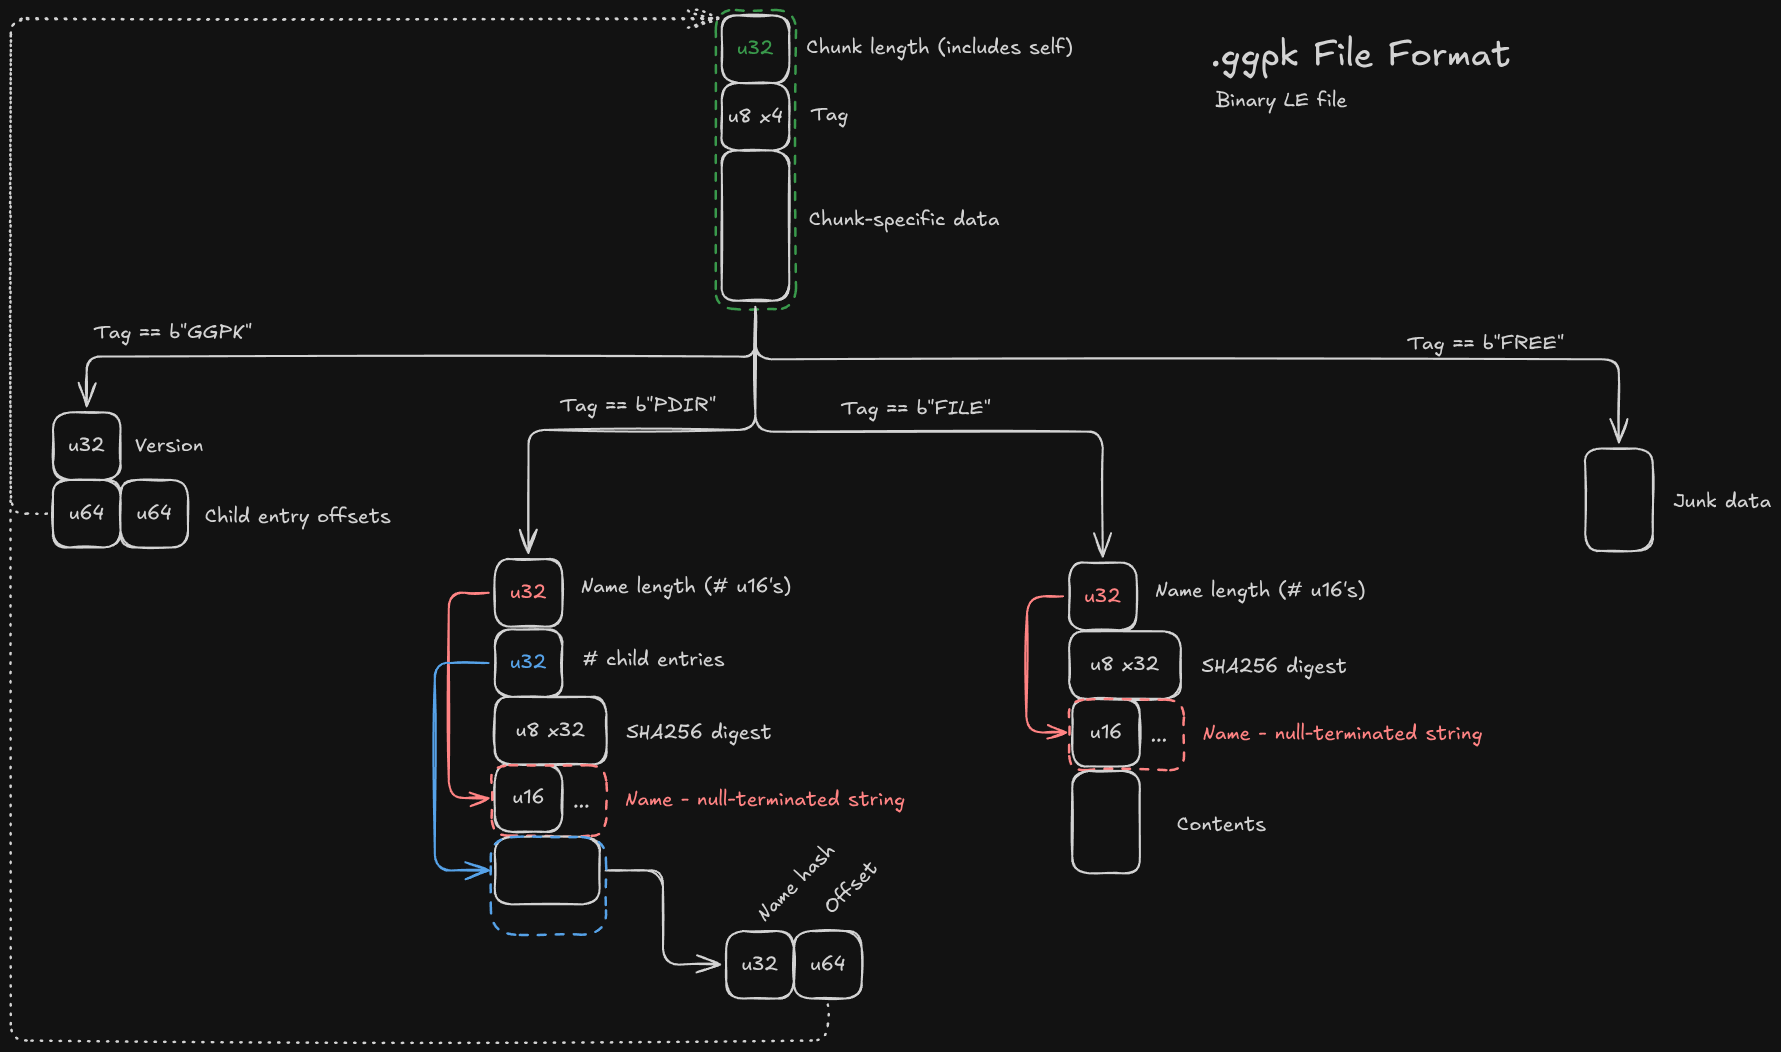
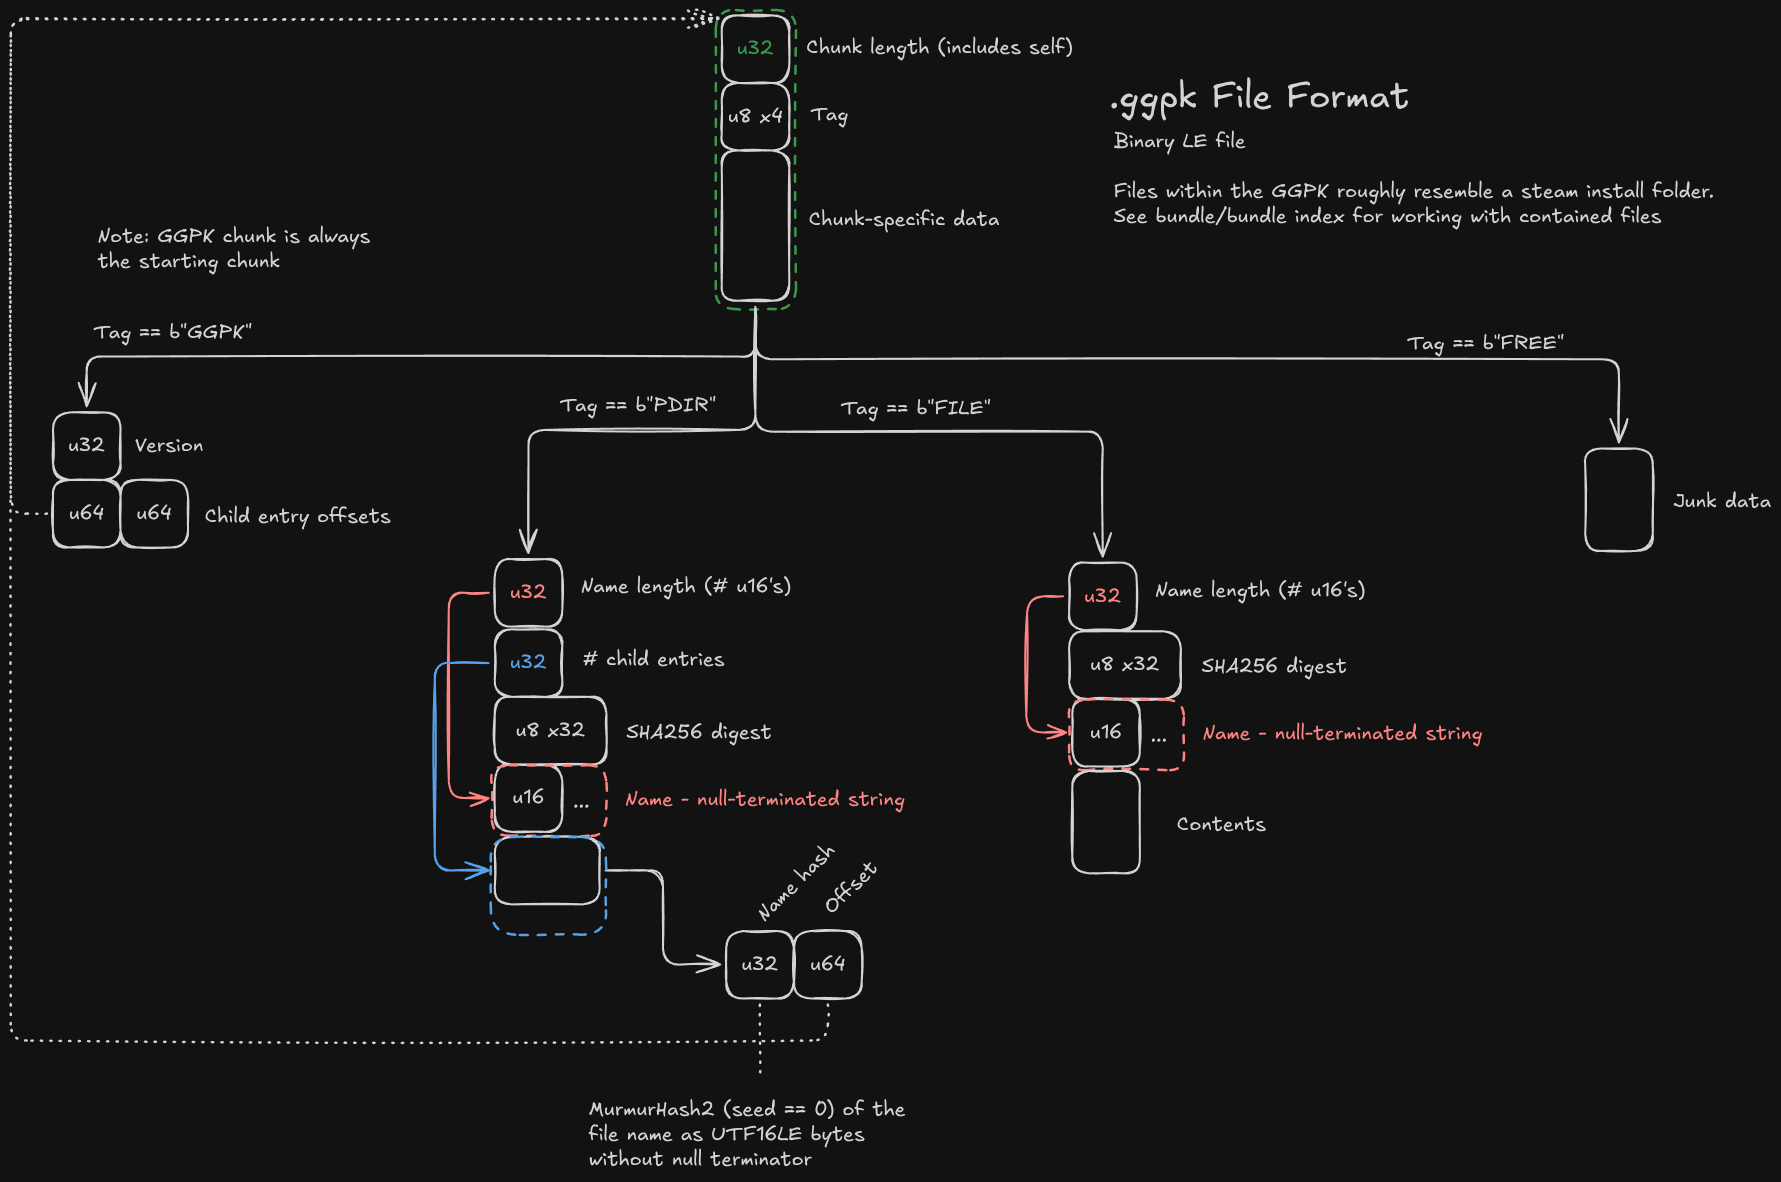
spec/readme

diff --git a/README.md b/README.md
@@ -165,14 +165,14 @@ By file format version (fails : successes)
 |tsi|0 : 463||||||||||||||||||||||||||||||||||||||
 |tst|0 : 409||||||||||||||||||||||||||||||||||||||
 
-# Bundle File format
+# GGPK File Format
+![ggpk file format](./images/ggpk_spec.png)
+
+# Bundle File Format
 ![bundle file format](./images/bundle_spec.png)
 
-# Bundle Index File format
+# Bundle Index File Format
 ![bundle index file format](./images/bundle_index_spec.png)
-
-# Passive Skill Graph (PSG) File Format
-![psg file format](./images/psg_spec.png)  
 
 # World Area related files
 ![world areas](./images/world_areas.png)  
@@ -230,6 +230,9 @@ By file format version (fails : successes)
 
 ## PET File Format
 ![pet format](./images/pet_spec.png)  
+
+## PSG File Format
+![psg file format](./images/psg_spec.png)  
 
 ## RS File Format
 ![rs format](./images/rs_spec.png)  
